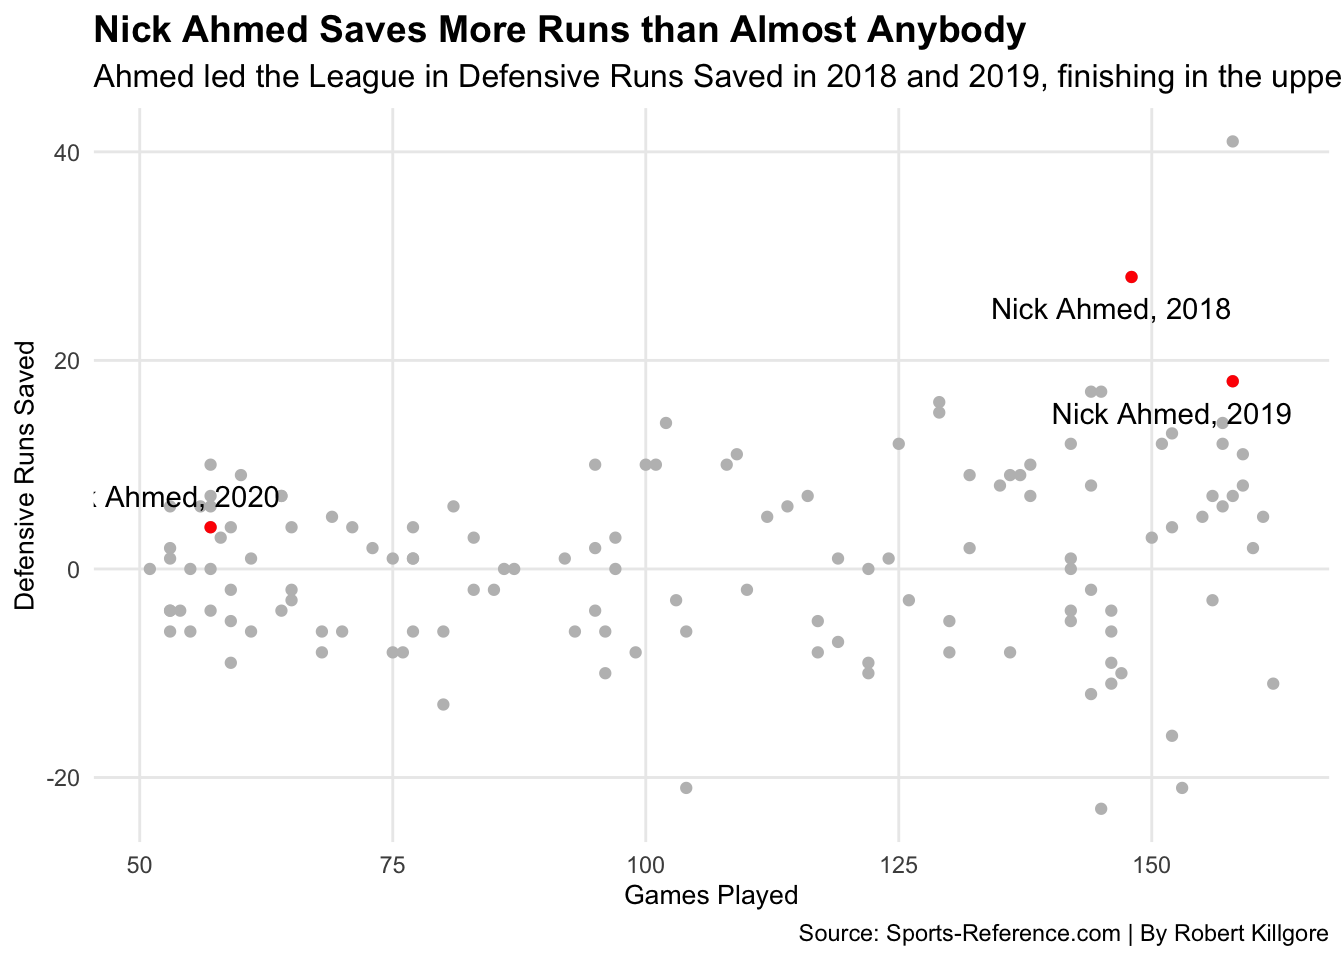
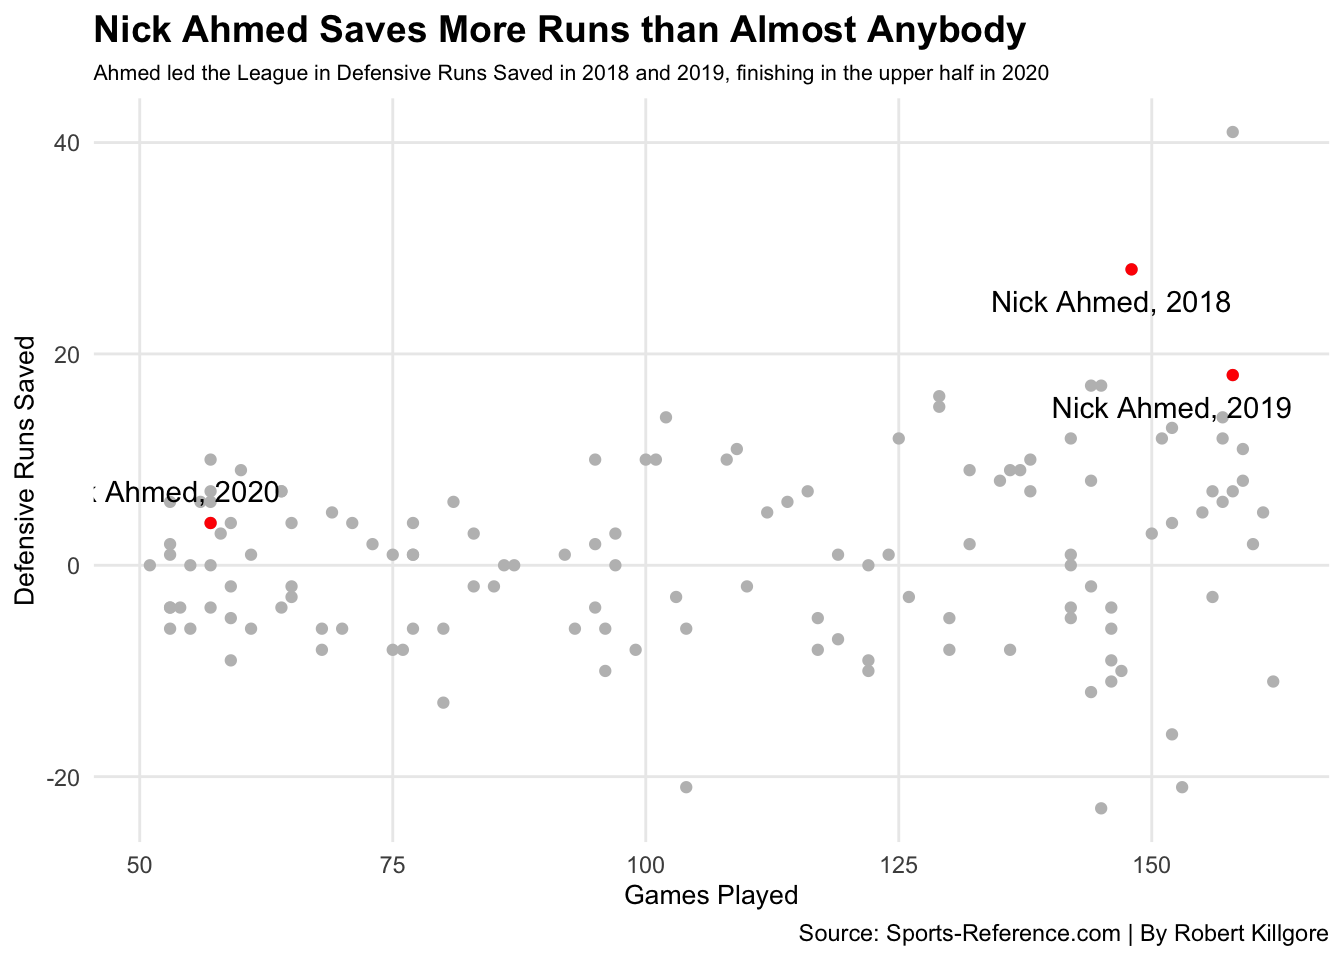
third post check

diff --git a/2021/04/21/is-nick-ahmed-the-best-defensive-shortshop-in-basbeall/index.html b/2021/04/21/is-nick-ahmed-the-best-defensive-shortshop-in-basbeall/index.html
@@ -62,7 +62,7 @@
 
   <article class="article">
     
-    <span class="article-duration">4 min read</span>
+    <span class="article-duration">5 min read</span>
     
 
     <h1 class="article-title">Is Nick Ahmed the best defensive shortshop in baseball?</h1>
@@ -120,7 +120,7 @@ library(ggbeeswarm)</code></pre>
      theme(
     plot.title = element_text(size = 14, face = &quot;bold&quot;),
     axis.title = element_text(size = 10), 
-    plot.subtitle = element_text(size= 12), 
+    plot.subtitle = element_text(size= 8), 
     panel.grid.minor = element_blank()
   )</code></pre>
 <p><img src="/2021/04/21/is-nick-ahmed-the-best-defensive-shortshop-in-basbeall/index_files/figure-html/unnamed-chunk-8-1.png" width="672" /></p>
@@ -150,6 +150,45 @@ library(ggbeeswarm)</code></pre>
   )</code></pre>
 <p><img src="/2021/04/21/is-nick-ahmed-the-best-defensive-shortshop-in-basbeall/index_files/figure-html/unnamed-chunk-12-1.png" width="672" />
 Ahmed finished the 2018 season with a .985 fielding percentage in 2018 and a .979 fielding percentage, right among the elite shortstops. The Diamondbacks had the luxury of penciling Ahmed in the lineup everyday, knowing he would make few mistakes. The next thing we will look are total innings played, total chanches, and total errors in a bubble chart.</p>
+<p>The first thing we will do to create the bubble chart is to filter for the players who have played over 420 innings to account for the 2020 season like we did before. Like the Defensive Runs Saved chart, Ahmed’s 2017 season will not be included.</p>
+<pre class="r"><code>goodfielders &lt;- test %&gt;% filter(Inn&gt;420) %&gt;% group_by(Name, Season)</code></pre>
+<p>Next, we will add up the total innings played, total chances and total errors from eligible players from 2018, 2019, and 2020.</p>
+<pre class="r"><code>goodfielders &lt;- test %&gt;% filter(Inn&gt;420) %&gt;% group_by(Name, Season) %&gt;%  summarise(
+    TotalInningsPlayed = sum(Inn), 
+    TotalChanches = sum(Ch), 
+    TotalErrors = sum(Errors))</code></pre>
+<pre><code>## `summarise()` has grouped output by &#39;Name&#39;. You can override using the `.groups` argument.</code></pre>
+<pre class="r"><code>ggplot() + 
+  geom_point(
+    data=goodfielders, 
+    aes(x=TotalChanches, y=TotalInningsPlayed, size=TotalErrors)
+    )</code></pre>
+<p><img src="/2021/04/21/is-nick-ahmed-the-best-defensive-shortshop-in-basbeall/index_files/figure-html/unnamed-chunk-15-1.png" width="672" /></p>
+<pre class="r"><code>ahmed &lt;-goodfielders %&gt;% filter(Name==&quot;Nick Ahmed&quot;)</code></pre>
+<pre class="r"><code>ggplot() + 
+  geom_point(
+    data=goodfielders, 
+    aes(x=TotalChanches, y=TotalInningsPlayed, size=TotalErrors), 
+    color=&quot;grey&quot;)  + 
+  geom_point(
+    data=ahmed, 
+    aes(x=TotalChanches, y=TotalInningsPlayed, size=TotalErrors), 
+    color=&quot;red&quot;) + 
+  geom_vline(xintercept = 403.966665455) + 
+  geom_hline(yintercept = 1101.97712545) +
+   geom_text(aes(x=290, y=375, label=&quot;Nick Ahmed, 2020&quot;), color=&quot;black&quot;) +
+  geom_text(aes(x=650, y=1150, label=&quot;Nick Ahmed, 2018&quot;), color=&quot;black&quot;) +
+  geom_text(aes(x=660, y=1510, label=&quot;Nick Ahmed, 2019&quot;), color=&quot;black&quot;) +
+  labs(x=&quot;Total Chanches&quot;, y=&quot;Total Innings Played&quot;, title=&quot;Nick Ahmed Rarely Commits Errors&quot;, subtitle=&quot;Ahmed Errors are Few and Far Between Despite Playing a Lot of Innings&quot;, caption=&quot;Source: Sports-Reference.com | By Robert Killgore&quot;) +
+  theme_minimal() + 
+     theme(
+    plot.title = element_text(size = 15, face = &quot;bold&quot;),
+    axis.title = element_text(size = 12), 
+    plot.subtitle = element_text(size=8), 
+    panel.grid.minor = element_blank()
+  )</code></pre>
+<p><img src="/2021/04/21/is-nick-ahmed-the-best-defensive-shortshop-in-basbeall/index_files/figure-html/unnamed-chunk-17-1.png" width="672" />
+For the last three seasons, Ahmed has committed the fewest errors among everyday shortshops. The most he had in one season was 13 in 2019, where he played over 1300 innings and still won a Gold Glove. Now that we have shown Ahmed is one of the most trustworthy shortshops in the MLB, let’s see how many runs Ahmed has been worth using the fielding metric Rtot.</p>
 
     </div>
   </article>
